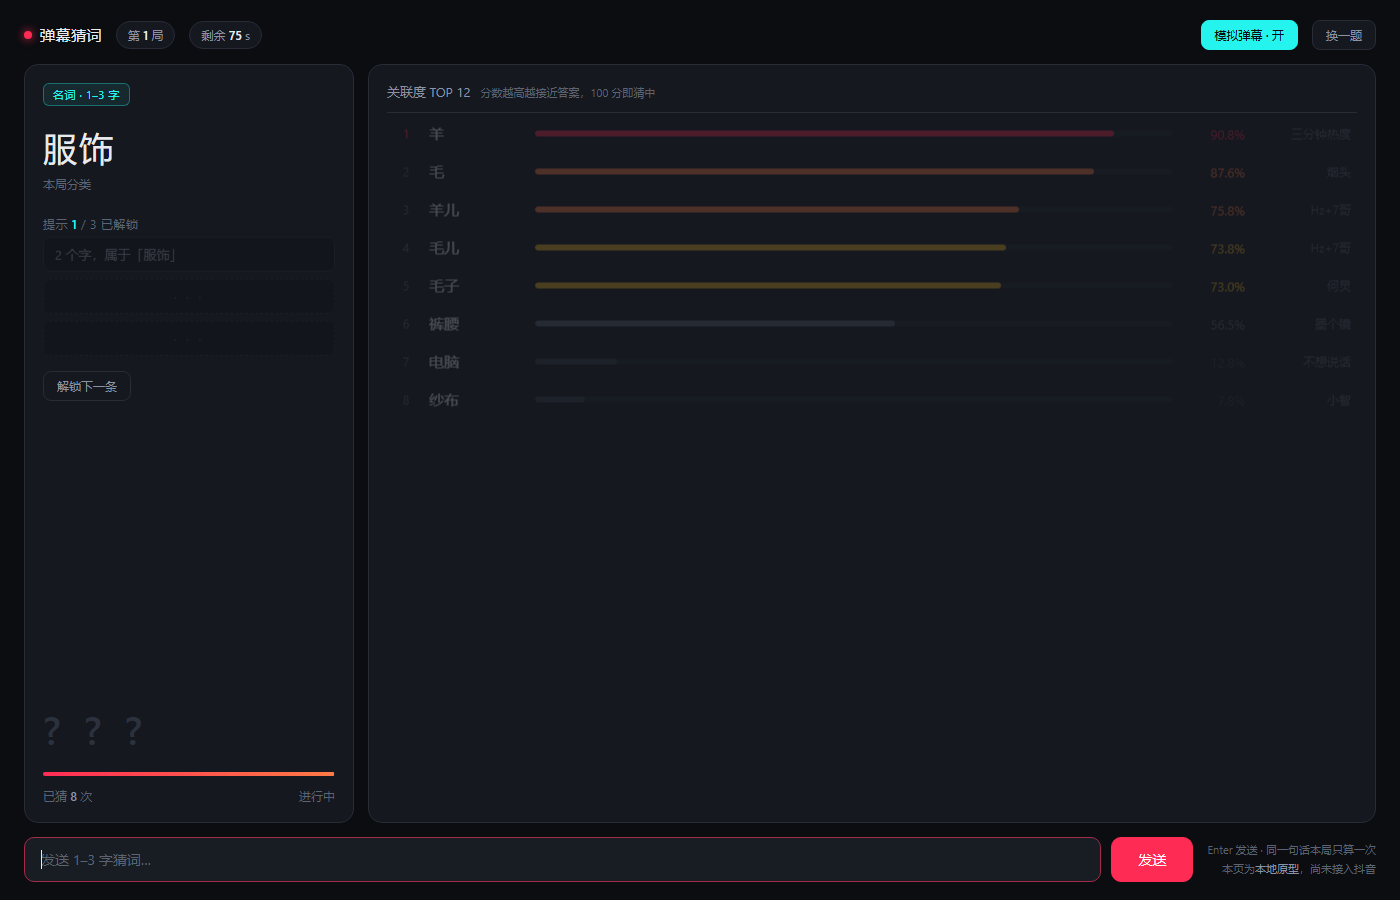
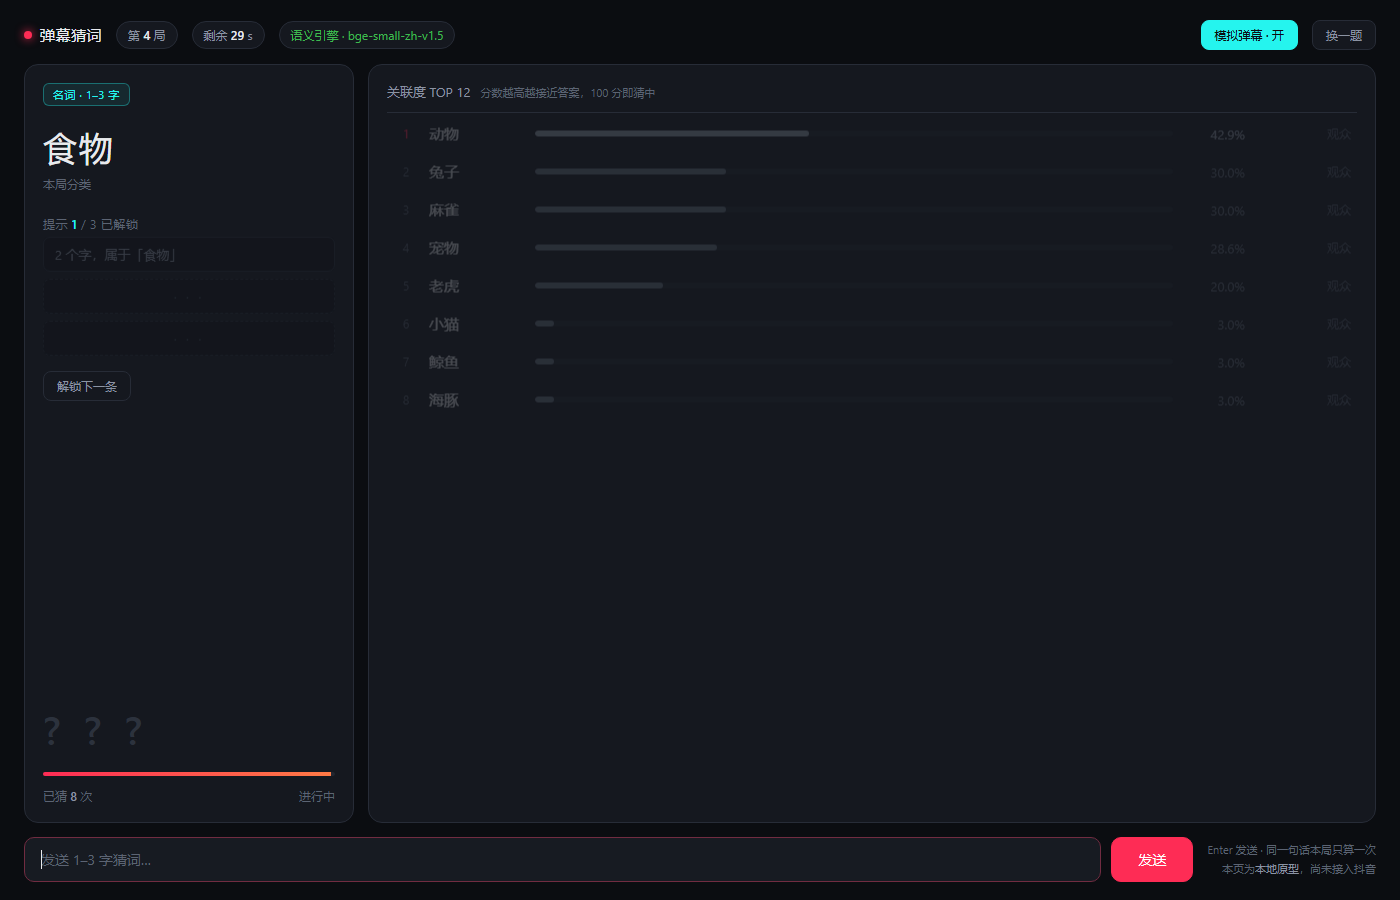
feat(ui): 顶栏显示语义引擎状态，修正低分配色
- 顶栏新增引擎标签，语义模式为绿色、图谱模式为灰色，模型名取短名避免溢出
- 低分配的灰色过暗，整行几乎看不见，调亮两档保证可读
- 更新界面截图

diff --git a/public/index.html b/public/index.html
@@ -153,6 +153,7 @@
     <div class="brand"><span class="dot"></span>弹幕猜词</div>
     <div class="pill">第 <b id="round">—</b> 局</div>
     <div class="pill">剩余 <b id="remain">—</b> s</div>
+    <div class="pill" id="engine" title="关联度打分引擎">语义引擎 · —</div>
     <div class="spacer"></div>
     <button id="btnBot" class="on">模拟弹幕 · 开</button>
     <button id="btnNext">换一题</button>
@@ -212,13 +213,19 @@ function colorOf(s) {
   if (s >= 90) return '#fe2c55'
   if (s >= 75) return '#ff7a45'
   if (s >= 60) return '#f0b429'
-  if (s >= 40) return '#5c6473'
-  return '#3a4150'
+  if (s >= 40) return '#9aa3b2'
+  return '#6d7686'
 }
 
 function render(s) {
   $('round').textContent = s.round
   $('remain').textContent = s.remain
+  if (s.engine) {
+    const e = s.engine
+    const short = String(e.model || '').split('/').pop().replace(/:latest$/, '')
+    $('engine').textContent = e.enabled ? `语义引擎 · ${short}` : '语义引擎 · 图谱模式'
+    $('engine').style.color = e.enabled ? 'var(--green, #3fb950)' : ''
+  }
   $('cat').textContent = s.category
   $('count').textContent = s.guessCount
 
